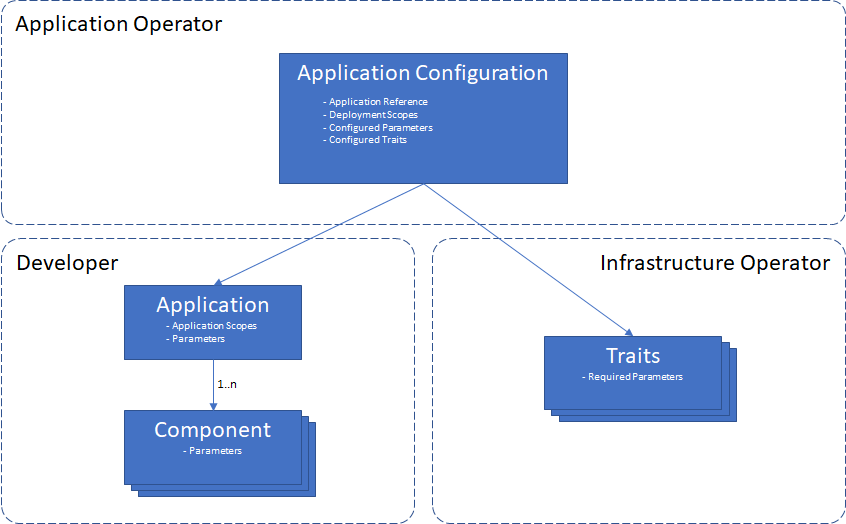
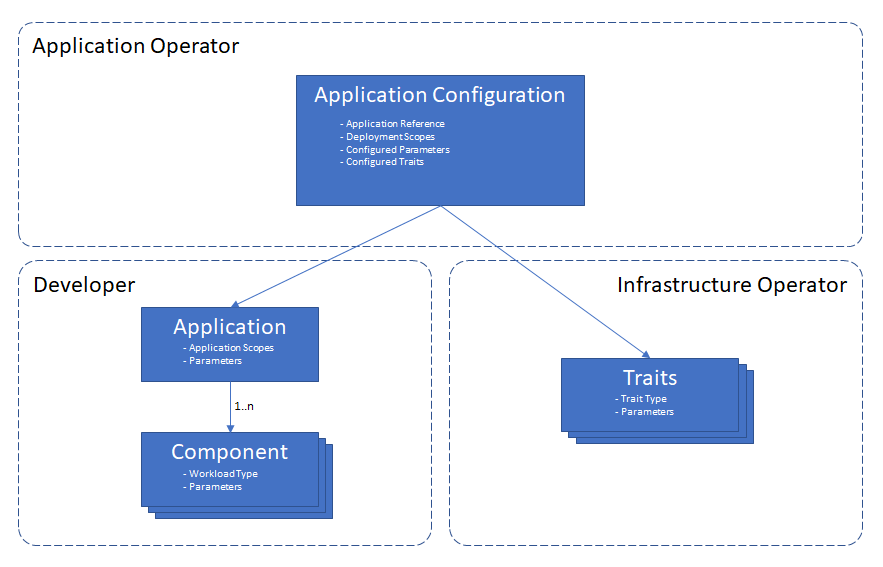
Small updates to the conceptual model and incorporated it into Section 1

diff --git a/1.purpose_and_goals.md b/1.purpose_and_goals.md
@@ -6,9 +6,11 @@ For example, a contemporary cloud application may be composed of dozens of micro
 
 This specification provides a description of such applications, where the description is aimed at separating the concerns of developers from the concerns of operators. Furthermore, it suggests patterns and processes for managing such applications. The specification describes a model for cloud native (i.e. highly distributed) cloud applications, encompassing public cloud technologies, on-prem solutions, and IoT/edge technologies. By specifying a common model, this specification provides a foundation for multiple implementations of a shared description of cloud native applications.
 
-This open specification defines:
+This open specification defines the following model:
 
-- __Component schematics__, where developers declare the operational characteristics of the code they deliver _in infrastructure neutral terms_.
+![Conceptual Model Diagram](./assets/conceptual-model-diagram.png)
+
+- __Component__, where developers declare the operational characteristics of the code they deliver _in infrastructure neutral terms_.
 - __Scopes__, a way to loosely couple components into groups with common characteristics.
 - __Applications__, where developers group all of the components together into a single, deployable unit and specifies cross-component info, such as health scopes.
 - __Traits__ for assigning operational features to instances of components.
